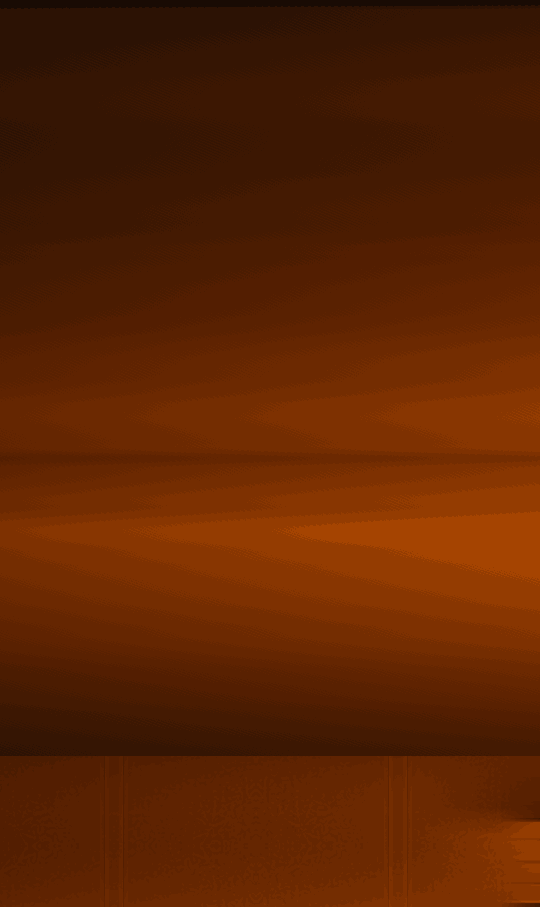
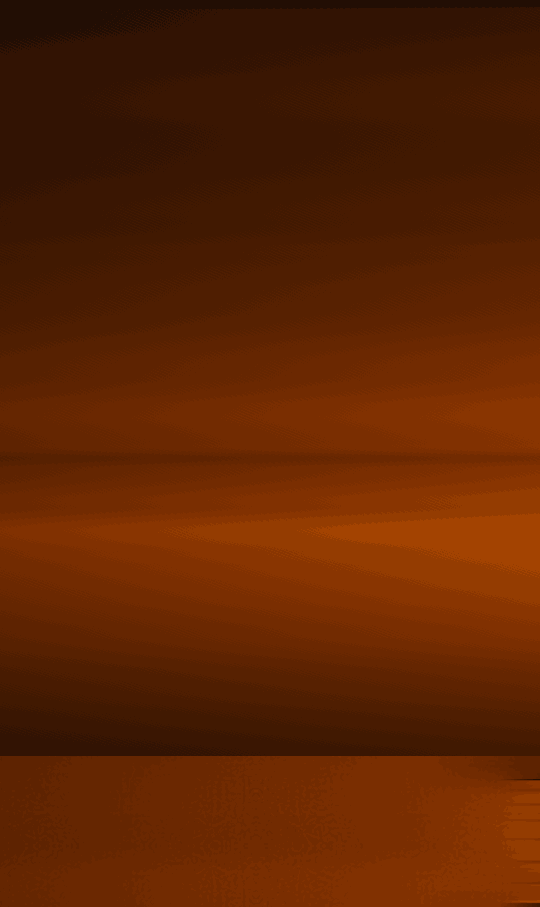
Closet corners where the red lines are
Left corner just right of the lamp's stem, behind the shade; right corner down to the Xbox's top, the old line beside it painted out properly. The desk meets each side wall along a shallow crease so the lamp and the lava lamp still stand on it.

Changed region(s): [[0.8296, 0.8335, 1.0, 0.9261], [0.4444, 0.8335, 0.5333, 0.8644], [0.6519, 0.8335, 0.7111, 0.8644]]

diff --git a/scripts/mockup-room.js b/scripts/mockup-room.js
@@ -146,21 +146,21 @@ function widen(img) {
  * The mockup's own corner line is painted out; whatever stands in front (the lamp, the notebook, the cable and
  * controller) is kept.
  */
-const CORNERS = [{ side: 'left', old: 176, w: 4, x: 140, y: 758, src: 690 }, { side: 'right', old: 1695, w: 12, x: 1800, y: 768, src: 762 }];
-const SLOPE = 0.45; // the crease's drop per px out from the corner
+const CORNERS = [{ side: 'left', old: 176, w: 4, x: 181, y: 758, src: 690 }, { side: 'right', old: 1699, w: 6, x: 1672, y: 768, src: 762 }];
+const SLOPE = 0.12; // the crease's drop per px out from the corner (shallow, so the lamp and lava lamp stand on the desk)
 const SHADE_POLY = [[28, 383], [213, 383], [152, 268], [86, 268]];
 const NOTEBOOK = [[8, 842], [236, 782], [272, 840], [60, 900], [8, 900]];
 const HEADSET = (x, y) => ell(x, y, 1229, 261, 35, 42) || ell(x, y, 1287, 262, 34, 42) || (y < 232 && ell(x, y, 1262, 216, 50, 76) && !ell(x, y, 1262, 222, 27, 63)) || (x >= 1246 && x <= 1272 && y >= 116 && y <= 154);
 function alignCorners(img) {
   const at = (x, y, c) => img[(y * WW + x) * 3 + c];
   const lum = (x, y) => 0.299 * at(x, y, 0) + 0.587 * at(x, y, 1) + 0.114 * at(x, y, 2);
-  const src = Buffer.from(img);
+  let src = Buffer.from(img);
   const sl = (x, y) => 0.299 * src[(y * WW + x) * 3] + 0.587 * src[(y * WW + x) * 3 + 1] + 0.114 * src[(y * WW + x) * 3 + 2];
   const line = [0, 1, 2].map((c) => src[(100 * WW + 176) * 3 + c]);
   // things in front of the walls (art px of the widened room)
   const keep = (x, y) => {
     const mx = (x > 900 ? x - CUTS.left.d - CUTS.right.d : x) / K, my = y / K;
-    return inPoly(mx, my, SHADE_POLY) || (my > 383 && my < 600 && Math.abs(mx - 117) < 26) || ell(mx, my, 122, 625, 92, 48) || inPoly(x, y, NOTEBOOK) || HEADSET(mx, my);
+    return inPoly(mx, my, SHADE_POLY) || (my > 383 && my < 600 && Math.abs(mx - 117) < 26) || ell(mx, my, 122, 625, 92, 48) || inPoly(x, y, NOTEBOOK) || HEADSET(mx, my) || (x > 900 && inPoly(mx, my, XBOX));
   };
   for (const { side, old, w, x: cx, y: dy, src: sy } of CORNERS) {
     const out = side === 'left' ? -1 : 1;
@@ -175,6 +175,7 @@ function alignCorners(img) {
         for (let c = 0; c < 3; c++) img[o + c] = clamp(Math.round(src[(y * WW + e0) * 3 + c] * (1 - t) + src[(y * WW + e1) * 3 + c] * t), 0, 255);
       }
     }
+    src = Buffer.from(img); // (the old line painted out)
     // the side wall: the wall that's there, a shade darker (its light kept), and below the desk's back edge,
     // down to the crease, the wall carried on from the row above the desk
     const x0 = side === 'left' ? 0 : cx + 1, x1 = side === 'left' ? cx - 1 : WW - 1;
